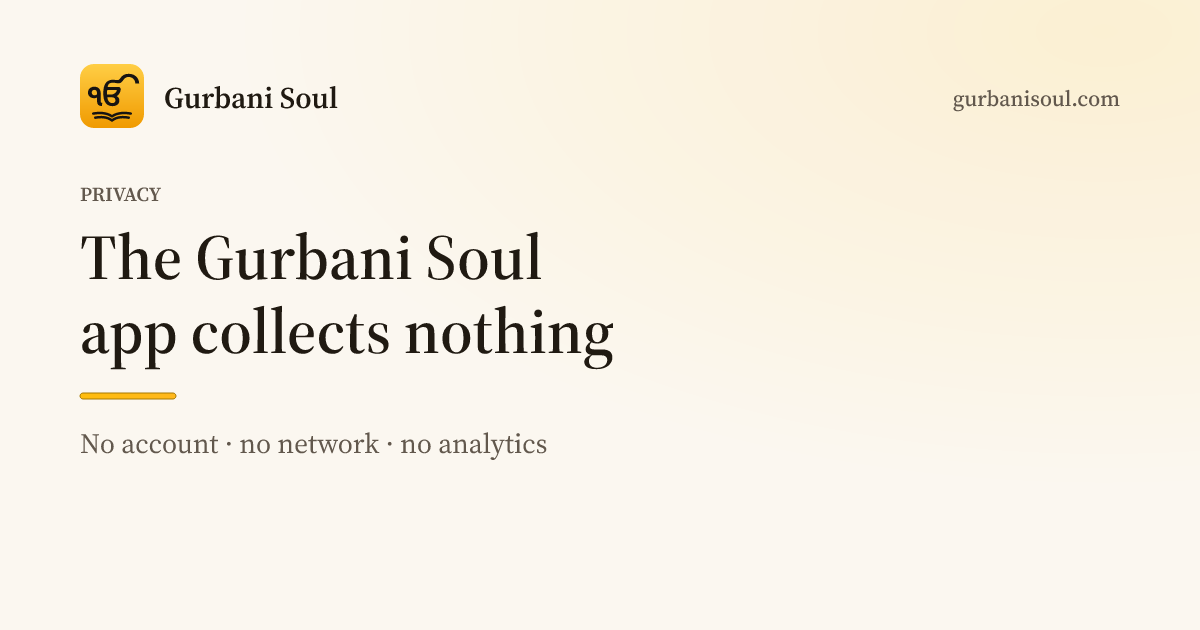
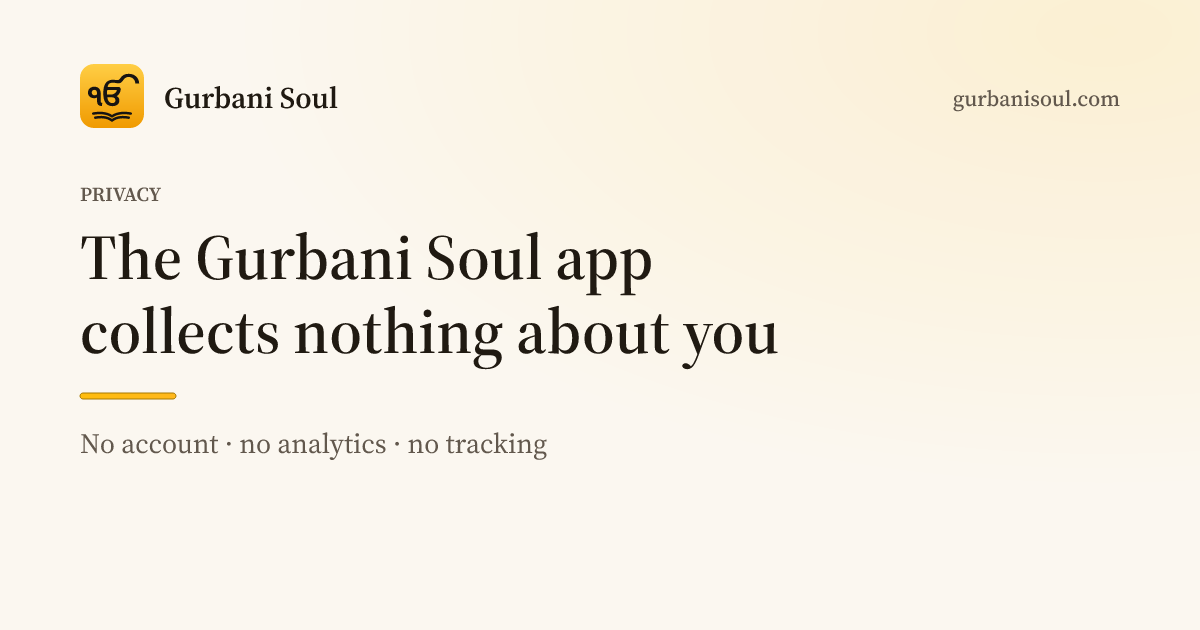
fix(web): privacy share card and iOS docs index match the Device ID label
The /privacy link preview (SHARE.privacy, its Open Graph card) and docs/ios/README.md still said
the app collects nothing and makes no network connections. They now say what the policy says:
nothing about the reader, and only the optional Hukamnama notification sends a device token.
og/v2/privacy.png regenerated.

Changed region(s): [[0.0617, 0.4825, 0.6475, 0.6032], [0.2158, 0.6937, 0.4625, 0.7238], [0.4625, 0.3921, 0.555, 0.4825]]

diff --git a/webapp/static/pa/privacy/index.html b/webapp/static/pa/privacy/index.html
@@ -1,4 +1,4 @@
-<!DOCTYPE html><html lang="pa" data-intl="pa-IN-u-nu-guru"> <head><meta charset="utf-8"><meta name="viewport" content="width=device-width, initial-scale=1, viewport-fit=cover"><title>ਪਰਦੇਦਾਰੀ ਨੀਤੀ — ਗੁਰਬਾਣੀ ਸੋਲ</title><link rel="canonical" href="https://gurbanisoul.com/pa/privacy"> <link rel="alternate" hreflang="en" href="https://gurbanisoul.com/en/privacy"><link rel="alternate" hreflang="pa" href="https://gurbanisoul.com/pa/privacy"><link rel="alternate" hreflang="fr" href="https://gurbanisoul.com/fr/privacy"><link rel="alternate" hreflang="x-default" href="https://gurbanisoul.com/"> <meta name="description" content="ਗੁਰਬਾਣੀ ਸੋਲ ਐਪ ਤੁਹਾਡੇ ਬਾਰੇ ਕੁਝ ਵੀ ਇਕੱਠਾ ਨਹੀਂ ਕਰਦੀ: ਨਾ ਖਾਤੇ, ਨਾ ਵਿਸ਼ਲੇਸ਼ਣ। ਸਿਰਫ਼ ਆਪਣੀ ਮਰਜ਼ੀ ਵਾਲੀ ਹੁਕਮਨਾਮੇ ਦੀ ਸੂਚਨਾ ਇਕ ਡਿਵਾਈਸ ਟੋਕਨ ਭੇਜਦੀ ਹੈ। ਠੀਕ-ਠੀਕ ਕੀ ਤੁਹਾਡੀ ਡਿਵਾਈਸ ’ਤੇ ਰਹਿੰਦਾ ਹੈ, ਅਤੇ ਇਹ ਵੈੱਬਸਾਈਟ ਕੀ ਕਰਦੀ ਹੈ।"> <meta property="og:type" content="website"> <meta property="og:site_name" content="ਗੁਰਬਾਣੀ ਸੋਲ"> <meta property="og:locale" content="pa_IN"> <meta property="og:locale:alternate" content="en_GB"><meta property="og:locale:alternate" content="fr_FR"> <meta property="og:title" content="ਪਰਦੇਦਾਰੀ ਨੀਤੀ — ਗੁਰਬਾਣੀ ਸੋਲ"> <meta property="og:description" content="No accounts, no network connections, no analytics. What stays on your device, and what this website does."> <meta property="og:url" content="https://gurbanisoul.com/pa/privacy"> <meta property="og:image" content="https://gurbanisoul.com/og/v2/privacy.png"> <meta property="og:image:secure_url" content="https://gurbanisoul.com/og/v2/privacy.png"> <meta property="og:image:type" content="image/png"> <meta property="og:image:width" content="1200"> <meta property="og:image:height" content="630"> <meta property="og:image:alt" content="Privacy: The Gurbani Soul app collects nothing (ਗੁਰਬਾਣੀ ਸੋਲ)"> <meta name="twitter:card" content="summary_large_image"> <meta name="twitter:title" content="ਪਰਦੇਦਾਰੀ ਨੀਤੀ — ਗੁਰਬਾਣੀ ਸੋਲ"> <meta name="twitter:description" content="No accounts, no network connections, no analytics. What stays on your device, and what this website does."> <meta name="twitter:image" content="https://gurbanisoul.com/og/v2/privacy.png"> <meta name="twitter:image:alt" content="Privacy: The Gurbani Soul app collects nothing (ਗੁਰਬਾਣੀ ਸੋਲ)"> <meta name="theme-color" content="#FBF7F0" id="themeColorMeta"> <link rel="manifest" href="/site.webmanifest"> <link rel="apple-touch-icon" href="/icons/apple-touch-icon.png"> <meta name="apple-mobile-web-app-title" content="ਗੁਰਬਾਣੀ ਸੋਲ"> <link rel="icon" href="/favicon.svg" type="image/svg+xml"><!-- Resolve theme before first paint. The marketing site is LIGHT-FIRST: with no stored choice
+<!DOCTYPE html><html lang="pa" data-intl="pa-IN-u-nu-guru"> <head><meta charset="utf-8"><meta name="viewport" content="width=device-width, initial-scale=1, viewport-fit=cover"><title>ਪਰਦੇਦਾਰੀ ਨੀਤੀ — ਗੁਰਬਾਣੀ ਸੋਲ</title><link rel="canonical" href="https://gurbanisoul.com/pa/privacy"> <link rel="alternate" hreflang="en" href="https://gurbanisoul.com/en/privacy"><link rel="alternate" hreflang="pa" href="https://gurbanisoul.com/pa/privacy"><link rel="alternate" hreflang="fr" href="https://gurbanisoul.com/fr/privacy"><link rel="alternate" hreflang="x-default" href="https://gurbanisoul.com/"> <meta name="description" content="ਗੁਰਬਾਣੀ ਸੋਲ ਐਪ ਤੁਹਾਡੇ ਬਾਰੇ ਕੁਝ ਵੀ ਇਕੱਠਾ ਨਹੀਂ ਕਰਦੀ: ਨਾ ਖਾਤੇ, ਨਾ ਵਿਸ਼ਲੇਸ਼ਣ। ਸਿਰਫ਼ ਆਪਣੀ ਮਰਜ਼ੀ ਵਾਲੀ ਹੁਕਮਨਾਮੇ ਦੀ ਸੂਚਨਾ ਇਕ ਡਿਵਾਈਸ ਟੋਕਨ ਭੇਜਦੀ ਹੈ। ਠੀਕ-ਠੀਕ ਕੀ ਤੁਹਾਡੀ ਡਿਵਾਈਸ ’ਤੇ ਰਹਿੰਦਾ ਹੈ, ਅਤੇ ਇਹ ਵੈੱਬਸਾਈਟ ਕੀ ਕਰਦੀ ਹੈ।"> <meta property="og:type" content="website"> <meta property="og:site_name" content="ਗੁਰਬਾਣੀ ਸੋਲ"> <meta property="og:locale" content="pa_IN"> <meta property="og:locale:alternate" content="en_GB"><meta property="og:locale:alternate" content="fr_FR"> <meta property="og:title" content="ਪਰਦੇਦਾਰੀ ਨੀਤੀ — ਗੁਰਬਾਣੀ ਸੋਲ"> <meta property="og:description" content="No accounts, no analytics. Only the optional Hukamnama notification sends a device token. What stays on your device, and what this website does."> <meta property="og:url" content="https://gurbanisoul.com/pa/privacy"> <meta property="og:image" content="https://gurbanisoul.com/og/v2/privacy.png"> <meta property="og:image:secure_url" content="https://gurbanisoul.com/og/v2/privacy.png"> <meta property="og:image:type" content="image/png"> <meta property="og:image:width" content="1200"> <meta property="og:image:height" content="630"> <meta property="og:image:alt" content="Privacy: The Gurbani Soul app collects nothing about you (ਗੁਰਬਾਣੀ ਸੋਲ)"> <meta name="twitter:card" content="summary_large_image"> <meta name="twitter:title" content="ਪਰਦੇਦਾਰੀ ਨੀਤੀ — ਗੁਰਬਾਣੀ ਸੋਲ"> <meta name="twitter:description" content="No accounts, no analytics. Only the optional Hukamnama notification sends a device token. What stays on your device, and what this website does."> <meta name="twitter:image" content="https://gurbanisoul.com/og/v2/privacy.png"> <meta name="twitter:image:alt" content="Privacy: The Gurbani Soul app collects nothing about you (ਗੁਰਬਾਣੀ ਸੋਲ)"> <meta name="theme-color" content="#FBF7F0" id="themeColorMeta"> <link rel="manifest" href="/site.webmanifest"> <link rel="apple-touch-icon" href="/icons/apple-touch-icon.png"> <meta name="apple-mobile-web-app-title" content="ਗੁਰਬਾਣੀ ਸੋਲ"> <link rel="icon" href="/favicon.svg" type="image/svg+xml"><!-- Resolve theme before first paint. The marketing site is LIGHT-FIRST: with no stored choice
        it renders light whatever the OS appearance (the Knowledge Base's Base.astro keeps 'system').
        An explicit choice (localStorage 'theme', shared with the KB) always wins. The single
        theme-color meta follows the resolved page theme (scripts/theme.ts keeps it in step). --><script>

diff --git a/webapp/static/fr/privacy/index.html b/webapp/static/fr/privacy/index.html
@@ -1,4 +1,4 @@
-<!DOCTYPE html><html lang="fr" data-intl="fr-FR"> <head><meta charset="utf-8"><meta name="viewport" content="width=device-width, initial-scale=1, viewport-fit=cover"><title>Politique de confidentialité — Gurbani Soul</title><link rel="canonical" href="https://gurbanisoul.com/fr/privacy"> <link rel="alternate" hreflang="en" href="https://gurbanisoul.com/en/privacy"><link rel="alternate" hreflang="pa" href="https://gurbanisoul.com/pa/privacy"><link rel="alternate" hreflang="fr" href="https://gurbanisoul.com/fr/privacy"><link rel="alternate" hreflang="x-default" href="https://gurbanisoul.com/"> <meta name="description" content="L’app Gurbani Soul ne collecte rien sur vous : pas de compte, aucune mesure d’audience. Seule la notification facultative du Hukamnama envoie un jeton d’appareil. Exactement ce qui reste sur votre appareil, et ce que fait ce site web."> <meta property="og:type" content="website"> <meta property="og:site_name" content="Gurbani Soul"> <meta property="og:locale" content="fr_FR"> <meta property="og:locale:alternate" content="en_GB"><meta property="og:locale:alternate" content="pa_IN"> <meta property="og:title" content="Politique de confidentialité — Gurbani Soul"> <meta property="og:description" content="No accounts, no network connections, no analytics. What stays on your device, and what this website does."> <meta property="og:url" content="https://gurbanisoul.com/fr/privacy"> <meta property="og:image" content="https://gurbanisoul.com/og/v2/privacy.png"> <meta property="og:image:secure_url" content="https://gurbanisoul.com/og/v2/privacy.png"> <meta property="og:image:type" content="image/png"> <meta property="og:image:width" content="1200"> <meta property="og:image:height" content="630"> <meta property="og:image:alt" content="Privacy: The Gurbani Soul app collects nothing (Gurbani Soul)"> <meta name="twitter:card" content="summary_large_image"> <meta name="twitter:title" content="Politique de confidentialité — Gurbani Soul"> <meta name="twitter:description" content="No accounts, no network connections, no analytics. What stays on your device, and what this website does."> <meta name="twitter:image" content="https://gurbanisoul.com/og/v2/privacy.png"> <meta name="twitter:image:alt" content="Privacy: The Gurbani Soul app collects nothing (Gurbani Soul)"> <meta name="theme-color" content="#FBF7F0" id="themeColorMeta"> <link rel="manifest" href="/site.webmanifest"> <link rel="apple-touch-icon" href="/icons/apple-touch-icon.png"> <meta name="apple-mobile-web-app-title" content="Gurbani Soul"> <link rel="icon" href="/favicon.svg" type="image/svg+xml"><!-- Resolve theme before first paint. The marketing site is LIGHT-FIRST: with no stored choice
+<!DOCTYPE html><html lang="fr" data-intl="fr-FR"> <head><meta charset="utf-8"><meta name="viewport" content="width=device-width, initial-scale=1, viewport-fit=cover"><title>Politique de confidentialité — Gurbani Soul</title><link rel="canonical" href="https://gurbanisoul.com/fr/privacy"> <link rel="alternate" hreflang="en" href="https://gurbanisoul.com/en/privacy"><link rel="alternate" hreflang="pa" href="https://gurbanisoul.com/pa/privacy"><link rel="alternate" hreflang="fr" href="https://gurbanisoul.com/fr/privacy"><link rel="alternate" hreflang="x-default" href="https://gurbanisoul.com/"> <meta name="description" content="L’app Gurbani Soul ne collecte rien sur vous : pas de compte, aucune mesure d’audience. Seule la notification facultative du Hukamnama envoie un jeton d’appareil. Exactement ce qui reste sur votre appareil, et ce que fait ce site web."> <meta property="og:type" content="website"> <meta property="og:site_name" content="Gurbani Soul"> <meta property="og:locale" content="fr_FR"> <meta property="og:locale:alternate" content="en_GB"><meta property="og:locale:alternate" content="pa_IN"> <meta property="og:title" content="Politique de confidentialité — Gurbani Soul"> <meta property="og:description" content="No accounts, no analytics. Only the optional Hukamnama notification sends a device token. What stays on your device, and what this website does."> <meta property="og:url" content="https://gurbanisoul.com/fr/privacy"> <meta property="og:image" content="https://gurbanisoul.com/og/v2/privacy.png"> <meta property="og:image:secure_url" content="https://gurbanisoul.com/og/v2/privacy.png"> <meta property="og:image:type" content="image/png"> <meta property="og:image:width" content="1200"> <meta property="og:image:height" content="630"> <meta property="og:image:alt" content="Privacy: The Gurbani Soul app collects nothing about you (Gurbani Soul)"> <meta name="twitter:card" content="summary_large_image"> <meta name="twitter:title" content="Politique de confidentialité — Gurbani Soul"> <meta name="twitter:description" content="No accounts, no analytics. Only the optional Hukamnama notification sends a device token. What stays on your device, and what this website does."> <meta name="twitter:image" content="https://gurbanisoul.com/og/v2/privacy.png"> <meta name="twitter:image:alt" content="Privacy: The Gurbani Soul app collects nothing about you (Gurbani Soul)"> <meta name="theme-color" content="#FBF7F0" id="themeColorMeta"> <link rel="manifest" href="/site.webmanifest"> <link rel="apple-touch-icon" href="/icons/apple-touch-icon.png"> <meta name="apple-mobile-web-app-title" content="Gurbani Soul"> <link rel="icon" href="/favicon.svg" type="image/svg+xml"><!-- Resolve theme before first paint. The marketing site is LIGHT-FIRST: with no stored choice
        it renders light whatever the OS appearance (the Knowledge Base's Base.astro keeps 'system').
        An explicit choice (localStorage 'theme', shared with the KB) always wins. The single
        theme-color meta follows the resolved page theme (scripts/theme.ts keeps it in step). --><script>

diff --git a/webapp/static/en/privacy/index.html b/webapp/static/en/privacy/index.html
@@ -1,4 +1,4 @@
-<!DOCTYPE html><html lang="en" data-intl="en-GB"> <head><meta charset="utf-8"><meta name="viewport" content="width=device-width, initial-scale=1, viewport-fit=cover"><title>Privacy Policy — Gurbani Soul</title><link rel="canonical" href="https://gurbanisoul.com/en/privacy"> <link rel="alternate" hreflang="en" href="https://gurbanisoul.com/en/privacy"><link rel="alternate" hreflang="pa" href="https://gurbanisoul.com/pa/privacy"><link rel="alternate" hreflang="fr" href="https://gurbanisoul.com/fr/privacy"><link rel="alternate" hreflang="x-default" href="https://gurbanisoul.com/"> <meta name="description" content="The Gurbani Soul app collects nothing about you: no accounts, no analytics. Only the optional Hukamnama notification sends a device token. Exactly what stays on your device, and what this website does."> <meta property="og:type" content="website"> <meta property="og:site_name" content="Gurbani Soul"> <meta property="og:locale" content="en_GB"> <meta property="og:locale:alternate" content="pa_IN"><meta property="og:locale:alternate" content="fr_FR"> <meta property="og:title" content="Privacy Policy — Gurbani Soul"> <meta property="og:description" content="No accounts, no network connections, no analytics. What stays on your device, and what this website does."> <meta property="og:url" content="https://gurbanisoul.com/en/privacy"> <meta property="og:image" content="https://gurbanisoul.com/og/v2/privacy.png"> <meta property="og:image:secure_url" content="https://gurbanisoul.com/og/v2/privacy.png"> <meta property="og:image:type" content="image/png"> <meta property="og:image:width" content="1200"> <meta property="og:image:height" content="630"> <meta property="og:image:alt" content="Privacy: The Gurbani Soul app collects nothing (Gurbani Soul)"> <meta name="twitter:card" content="summary_large_image"> <meta name="twitter:title" content="Privacy Policy — Gurbani Soul"> <meta name="twitter:description" content="No accounts, no network connections, no analytics. What stays on your device, and what this website does."> <meta name="twitter:image" content="https://gurbanisoul.com/og/v2/privacy.png"> <meta name="twitter:image:alt" content="Privacy: The Gurbani Soul app collects nothing (Gurbani Soul)"> <meta name="theme-color" content="#FBF7F0" id="themeColorMeta"> <link rel="manifest" href="/site.webmanifest"> <link rel="apple-touch-icon" href="/icons/apple-touch-icon.png"> <meta name="apple-mobile-web-app-title" content="Gurbani Soul"> <link rel="icon" href="/favicon.svg" type="image/svg+xml"><!-- Resolve theme before first paint. The marketing site is LIGHT-FIRST: with no stored choice
+<!DOCTYPE html><html lang="en" data-intl="en-GB"> <head><meta charset="utf-8"><meta name="viewport" content="width=device-width, initial-scale=1, viewport-fit=cover"><title>Privacy Policy — Gurbani Soul</title><link rel="canonical" href="https://gurbanisoul.com/en/privacy"> <link rel="alternate" hreflang="en" href="https://gurbanisoul.com/en/privacy"><link rel="alternate" hreflang="pa" href="https://gurbanisoul.com/pa/privacy"><link rel="alternate" hreflang="fr" href="https://gurbanisoul.com/fr/privacy"><link rel="alternate" hreflang="x-default" href="https://gurbanisoul.com/"> <meta name="description" content="The Gurbani Soul app collects nothing about you: no accounts, no analytics. Only the optional Hukamnama notification sends a device token. Exactly what stays on your device, and what this website does."> <meta property="og:type" content="website"> <meta property="og:site_name" content="Gurbani Soul"> <meta property="og:locale" content="en_GB"> <meta property="og:locale:alternate" content="pa_IN"><meta property="og:locale:alternate" content="fr_FR"> <meta property="og:title" content="Privacy Policy — Gurbani Soul"> <meta property="og:description" content="No accounts, no analytics. Only the optional Hukamnama notification sends a device token. What stays on your device, and what this website does."> <meta property="og:url" content="https://gurbanisoul.com/en/privacy"> <meta property="og:image" content="https://gurbanisoul.com/og/v2/privacy.png"> <meta property="og:image:secure_url" content="https://gurbanisoul.com/og/v2/privacy.png"> <meta property="og:image:type" content="image/png"> <meta property="og:image:width" content="1200"> <meta property="og:image:height" content="630"> <meta property="og:image:alt" content="Privacy: The Gurbani Soul app collects nothing about you (Gurbani Soul)"> <meta name="twitter:card" content="summary_large_image"> <meta name="twitter:title" content="Privacy Policy — Gurbani Soul"> <meta name="twitter:description" content="No accounts, no analytics. Only the optional Hukamnama notification sends a device token. What stays on your device, and what this website does."> <meta name="twitter:image" content="https://gurbanisoul.com/og/v2/privacy.png"> <meta name="twitter:image:alt" content="Privacy: The Gurbani Soul app collects nothing about you (Gurbani Soul)"> <meta name="theme-color" content="#FBF7F0" id="themeColorMeta"> <link rel="manifest" href="/site.webmanifest"> <link rel="apple-touch-icon" href="/icons/apple-touch-icon.png"> <meta name="apple-mobile-web-app-title" content="Gurbani Soul"> <link rel="icon" href="/favicon.svg" type="image/svg+xml"><!-- Resolve theme before first paint. The marketing site is LIGHT-FIRST: with no stored choice
        it renders light whatever the OS appearance (the Knowledge Base's Base.astro keeps 'system').
        An explicit choice (localStorage 'theme', shared with the KB) always wins. The single
        theme-color meta follows the resolved page theme (scripts/theme.ts keeps it in step). --><script>

diff --git a/frontend/src/share.ts b/frontend/src/share.ts
@@ -41,9 +41,9 @@ export const SHARE: Record<string, Share> = {
   },
   "privacy": {
     eyebrow: "Privacy",
-    title: "The Gurbani Soul app collects nothing",
-    sub: "No account · no network · no analytics",
-    social: "No accounts, no network connections, no analytics. What stays on your device, and what this website does.",
+    title: "The Gurbani Soul app collects nothing about you",
+    sub: "No account · no analytics · no tracking",
+    social: "No accounts, no analytics. Only the optional Hukamnama notification sends a device token. What stays on your device, and what this website does.",
   },
   "support": {
     eyebrow: "Support",

diff --git a/docs/ios/README.md b/docs/ios/README.md
@@ -59,8 +59,10 @@ naming the canonical file; edit them there:
   number of.
 - **One number.** `MARKETING_VERSION` equals the platform release whose contract is vendored;
   every platform release is re-archived as `X.Y.Z (1)`, so the App Store always equals the site.
-- **Nothing collected.** No accounts, no network at runtime, no tracking; the privacy manifest
-  declares only what the app stores on the device.
+- **Nothing collected about you.** No accounts, no tracking. The only network use is the daily
+  Hukamnama (a token-free read of the day's record) and its opt-in notification, whose device
+  token is the one item on the privacy label (Device ID, since 1.7.7); the privacy manifest
+  declares exactly that ([privacy and on-device data](privacy-and-on-device-data.md)).
 
 Identifiers are stable through the brand: bundle ids `org.sggs.*`, the App Group
 `group.org.sggs`, the URL scheme `sggs://` ([Brand & domains](../engineering/brand.md)).
